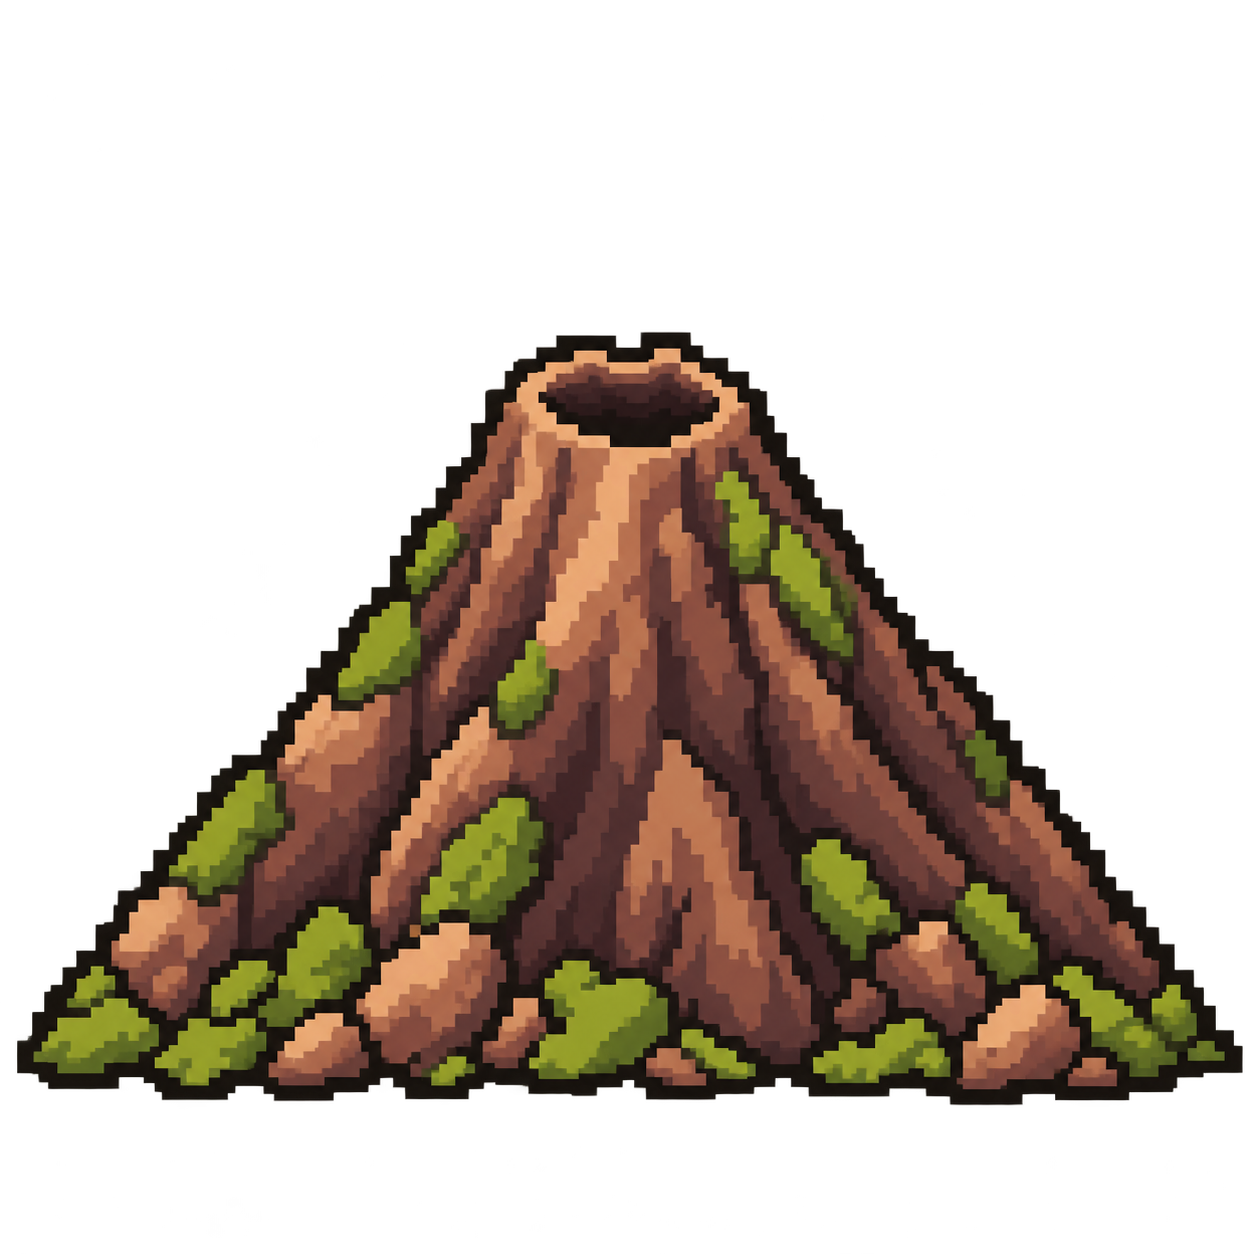
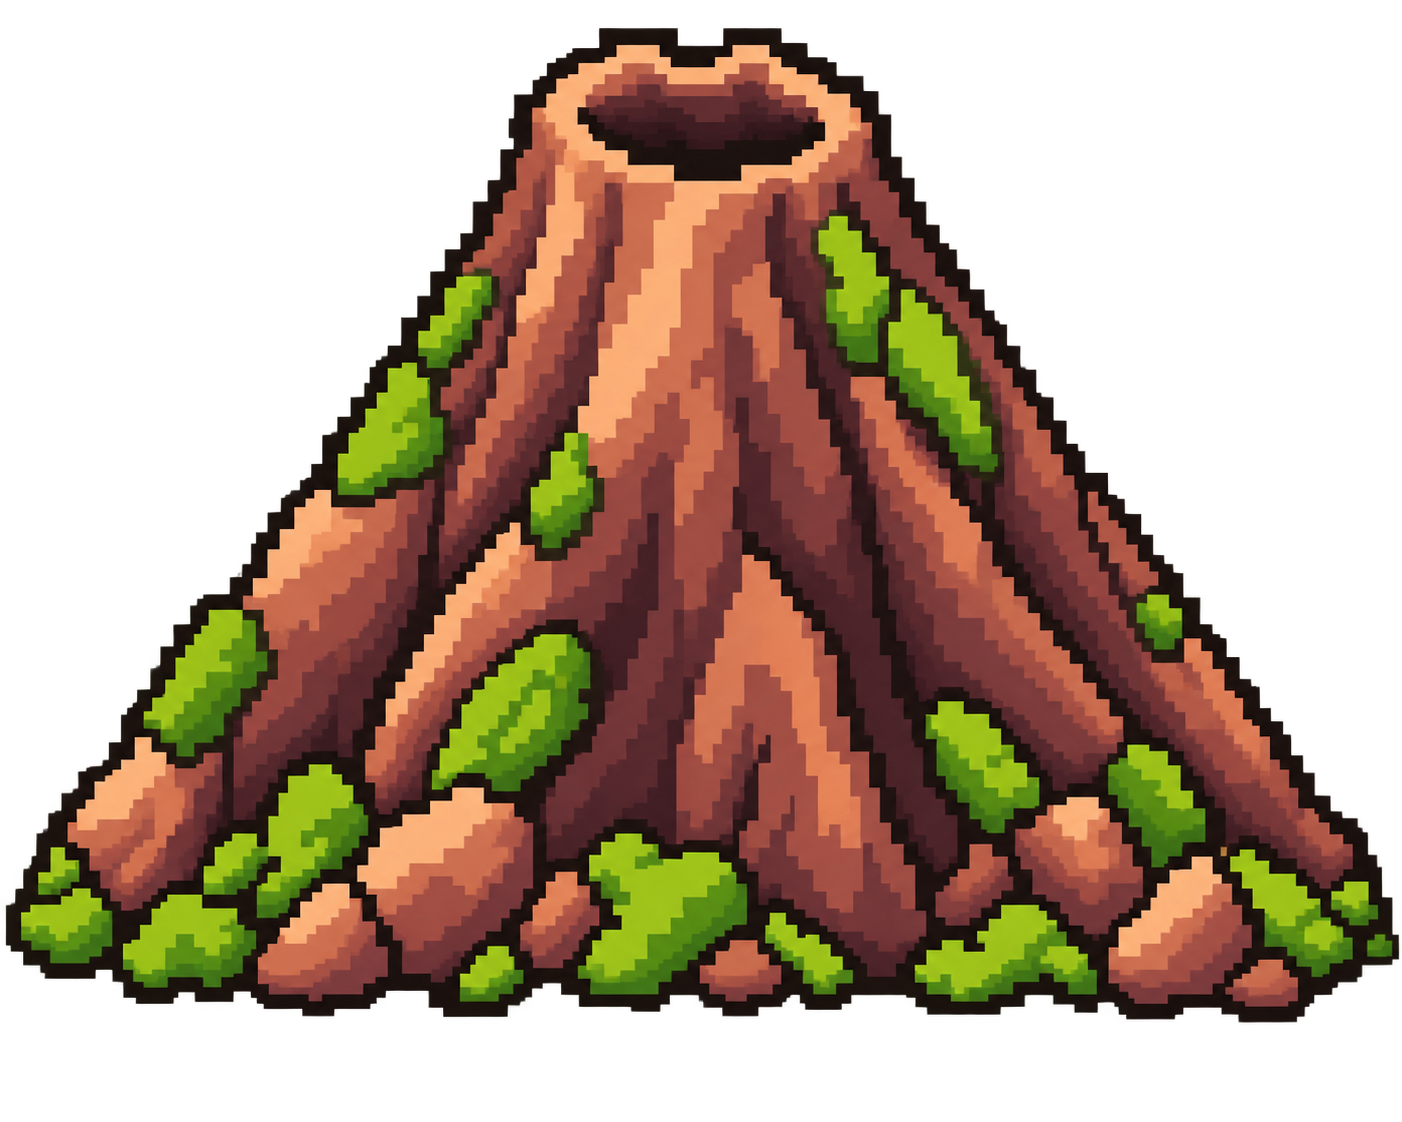
changed sizing of pngs, and reduced transparent tint on zones

diff --git a/src/ZoneEffects.java b/src/ZoneEffects.java
@@ -16,15 +16,15 @@ class ZoneEffects {
     }
 
     static Zone cleanse(Zone zone, Predicate<Animal> who) { // Wipes any lingering poison
-        return new EffectDecorator(zone, who, a -> a.cleanse(), new Color(0, 150, 255, 40));
+        return new EffectDecorator(zone, who, a -> a.cleanse(), new Color(0, 150, 255, 15));
     }
 
    
     static Zone slow(Zone zone, Predicate<Animal> who) {  // Multiplies movement speed while inside (0.5f = half speed)
-        return new EffectDecorator(zone, who, a -> a.speedMultiplier *= 0.5f, new Color(0, 0, 255, 40));
+        return new EffectDecorator(zone, who, a -> a.speedMultiplier *= 0.5f, new Color(0, 0, 255, 15));
     }
 
     static Zone speedBoost(Zone zone, Predicate<Animal> who, float factor) { // Gives speed boosto
-        return new EffectDecorator(zone, who, a -> a.speedMultiplier *= factor, new Color(255, 200, 0, 40));
+        return new EffectDecorator(zone, who, a -> a.speedMultiplier *= factor, new Color(255, 200, 0, 15));
     }
 }
